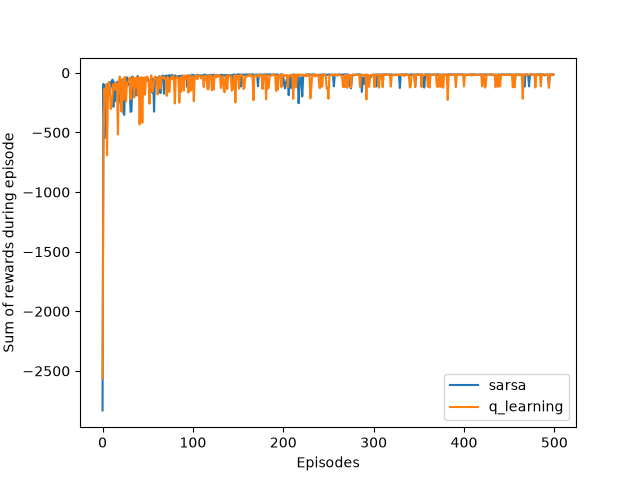
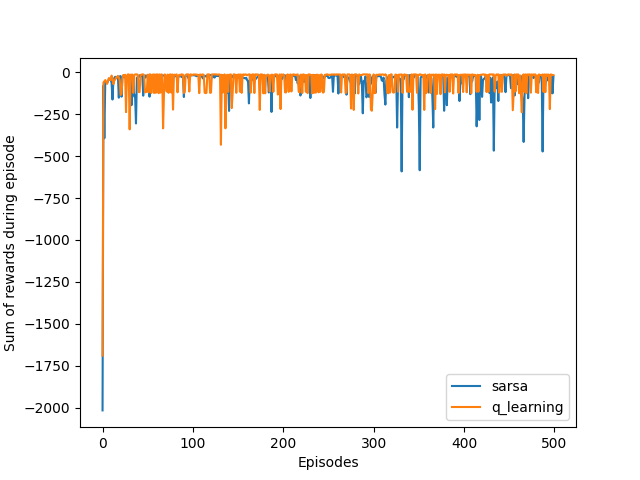
bugs fixed

diff --git a/experiments/sarsa_vs_q_learning_cliff_walking.py b/experiments/sarsa_vs_q_learning_cliff_walking.py
@@ -8,10 +8,14 @@ seed       = 42
 n_episodes = 500
 grid_size  = (4, 12)
 action_dim = 4
-alpha      = 0.1
-gamma      = 0.5
+alpha      = 0.05
+gamma      = 1
 epsilon    = 0.1
 methods    = ['sarsa', 'q_learning']
+save_dir = './logs/sarsa_vs_qlearning_cliffWalking/'
+
+os.makedirs(save_dir, exist_ok=True)
+os.makedirs(f'{save_dir}action_values/', exist_ok=True)
 
 env       = cliffWalking(grid_size=grid_size)
 agent     = epsilonGreedy(action_dim=action_dim, seed=seed, epsilon=epsilon)
@@ -19,25 +23,24 @@ agent     = epsilonGreedy(action_dim=action_dim, seed=seed, epsilon=epsilon)
 sum_rewards_dict = {}
 ## This part presents the Sarsa Control
 for method in methods:
-    Q_sarsa = np.zeros((grid_size[0], grid_size[1], action_dim))
+    Q = np.zeros((grid_size[0], grid_size[1], action_dim))
     sum_rewards_dict[method] = []
     for episode_idx in range(n_episodes):
-        sum_rewards = 0
+        sum_rewards = 0 # To keep the sum of the rewards in each episode
+        n_steps     = 0 # To count number of steps for each episode
         env.reset()
-        state = env.current_state
+        state = env.current_state.copy()
         row, col = state[0], state[1]
-        action = agent.act(Q_sarsa[row, col, :])
-
+        action = agent.act(Q[row, col, :])
         while True:
             row, col = state[0], state[1]
             next_state, reward = env.update(state, agent.actions[action])
             row_n, col_n = next_state[0], next_state[1]
-            action_n = agent.act(Q_sarsa[row_n, col_n, :])
-
+            action_n = agent.act(Q[row_n, col_n, :])
             if method == 'sarsa':
-                Q_sarsa[row, col, action] = Q_sarsa[row, col, action] + alpha * (reward + gamma * Q_sarsa[row_n, col_n, action_n] - Q_sarsa[row, col, action])
+                Q[row, col, action] = Q[row, col, action] + alpha * (reward + gamma * Q[row_n, col_n, action_n] - Q[row, col, action])
             elif method == 'q_learning':
-                Q_sarsa[row, col, action] = Q_sarsa[row, col, action] + alpha * (reward + gamma * np.max(Q_sarsa[row_n, col_n, :]) - Q_sarsa[row, col, action])
+                Q[row, col, action] = Q[row, col, action] + alpha * (reward + gamma * np.max(Q[row_n, col_n, :]) - Q[row, col, action])
 
             sum_rewards += reward
             if (next_state == env.terminal_state).all():
@@ -45,10 +48,47 @@ for method in methods:
 
             state = next_state
             action = action_n
+            n_steps += 1
         sum_rewards_dict[method].append(sum_rewards)
 
-save_dir = './logs/sarsa_vs_qlearning_cliffWalking/'
-os.makedirs(save_dir, exist_ok=True)
+    fig, ax = plt.subplots()
+    grid = np.zeros(grid_size)
+
+    ## Following the optimal policy
+    env.reset()
+    state = env.current_state.copy()
+    while not (state == env.terminal_state).all():
+        row, col = state[0], state[1]
+        grid[row,col] = 1.0
+        action = agent.act_greedy(Q[row, col, :])
+        state += agent.actions[action]
+
+
+    ax.imshow(grid,
+              origin="lower",
+              extent=(0, grid_size[1], 0, grid_size[0])
+              )
+
+    # Display each value inside its cell
+    for row in range(grid_size[0]):
+        for col in range(grid_size[1]):
+            ax.text(
+                col+0.5,
+                row+0.5,
+                f"{grid[row, col]:.2f}",
+                ha="center",
+                va="center"
+            )
+
+    ax.set_title(f"Optimal Path via {method}")
+    ax.set_xticks(np.arange(0, grid_size[1]+1, 1))
+    ax.set_yticks(np.arange(0, grid_size[0]+1, 1))
+    ax.grid()
+    ax.tick_params()
+    fig.savefig(f'{save_dir}action_values/{method}.png')
+    plt.close(fig)
+    plt.close()
+
 plt.figure(0)
 
 for key, value in sum_rewards_dict.items():

diff --git a/envs/cliff_walking.py b/envs/cliff_walking.py
@@ -6,7 +6,7 @@ class cliffWalking(Environment):
         super().__init__()
         self.grid_size = grid_size
         self.init_state = np.array([0,0])
-        self.terminal_state = np.array([grid_size[0]-1, grid_size[1]-1])
+        self.terminal_state = np.array([0, grid_size[1]-1])
 
     def update(self, state, action):
         next_state = state + action

diff --git a/agents/epsilon_greedy.py b/agents/epsilon_greedy.py
@@ -17,4 +17,10 @@ class epsilonGreedy(Agent):
             return max_indices[idx]
         return max_indices
 
+    def act_greedy(self, action_value):
+        max_indices = np.argmax(action_value)
+        if type(max_indices) == list:
+            idx = np.random.randint(len(max_indices))
+            return max_indices[idx]
+        return max_indices
 
